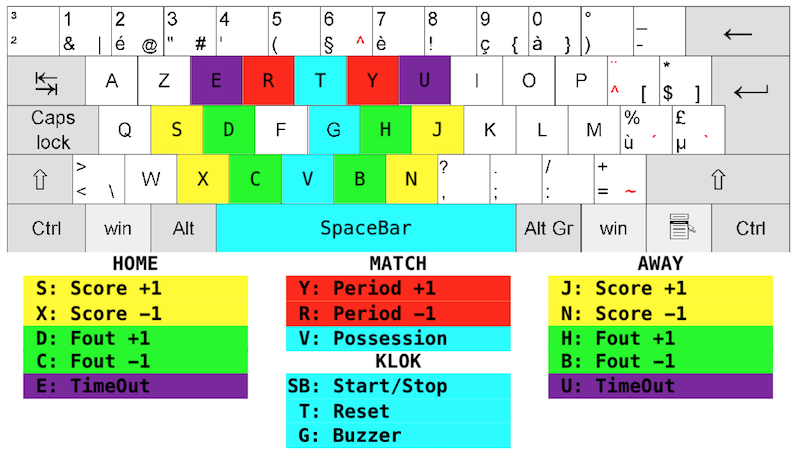
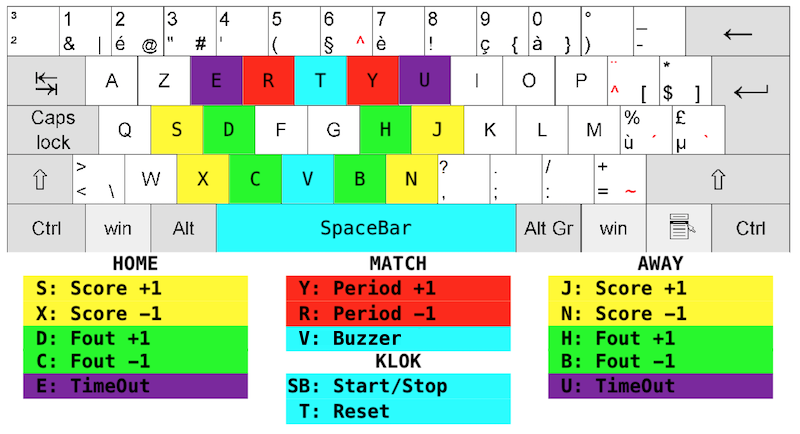
Keyboard: V is the buzzer key, possession not mapped
Possession is not used, so V (already the cyan key in the middle) sounds
the buzzer, like the middle button of the remote. G is no longer used.
The possession logic stays in the code; mapping a key to "Possession"
brings the arrow back.

keyboard.png is the original with "V: Possession" replaced by
"V: Buzzer" (same font and size as the other rows).

diff --git a/basketclockthread.py b/basketclockthread.py
@@ -63,13 +63,12 @@ KeyboardCommands = {
     pygame.K_n: "ScoreAway-",
     pygame.K_h: "FoulAway+",
     pygame.K_b: "FoulAway-",
-    pygame.K_v: "Possession",
+    pygame.K_v: "Buzzer",  # Possession is not used; map a key to "Possession" to show the arrow again
     pygame.K_y: "Periode+",
     pygame.K_r: "Periode-",
     pygame.K_e: "TimeOutHome",
     pygame.K_u: "TimeOutAway",
     pygame.K_t: "RestartTimer",
-    pygame.K_g: "Buzzer",
 }
 
 def GetKeyboardInput():

diff --git a/README.md b/README.md
@@ -16,7 +16,7 @@ The supported features are:
 - Score home/guest
 - TimeOut home/guest
 - Period
-- Possession
+- Possession arrow (in the code, not mapped to a key or button at the moment)
 - Tenths of a second in the last minute
 - Time-out rules (2 in the first half, 3 in the second half, max 2 in the last 2 minutes, 1 per overtime)
 - The game is kept when the program restarts (e.g. after a crash)
@@ -58,8 +58,8 @@ Space | Start / stop clock | T | Reset timer
 S / X | Score home + / - | J / N | Score away + / -
 D / C | Foul home + / - | H / B | Foul away + / -
 E | Time-out home | U | Time-out away
-Y / R | Period + / - | V | Possession
-G | Buzzer | Esc | Quit (restarts when running as a service)
+Y / R | Period + / - | V | Buzzer
+Esc | Quit (restarts when running as a service) | |
 
 ### NodeMCU
 In the folder *nodemcu*, you can find the code for the NodeMCU microPython device.
